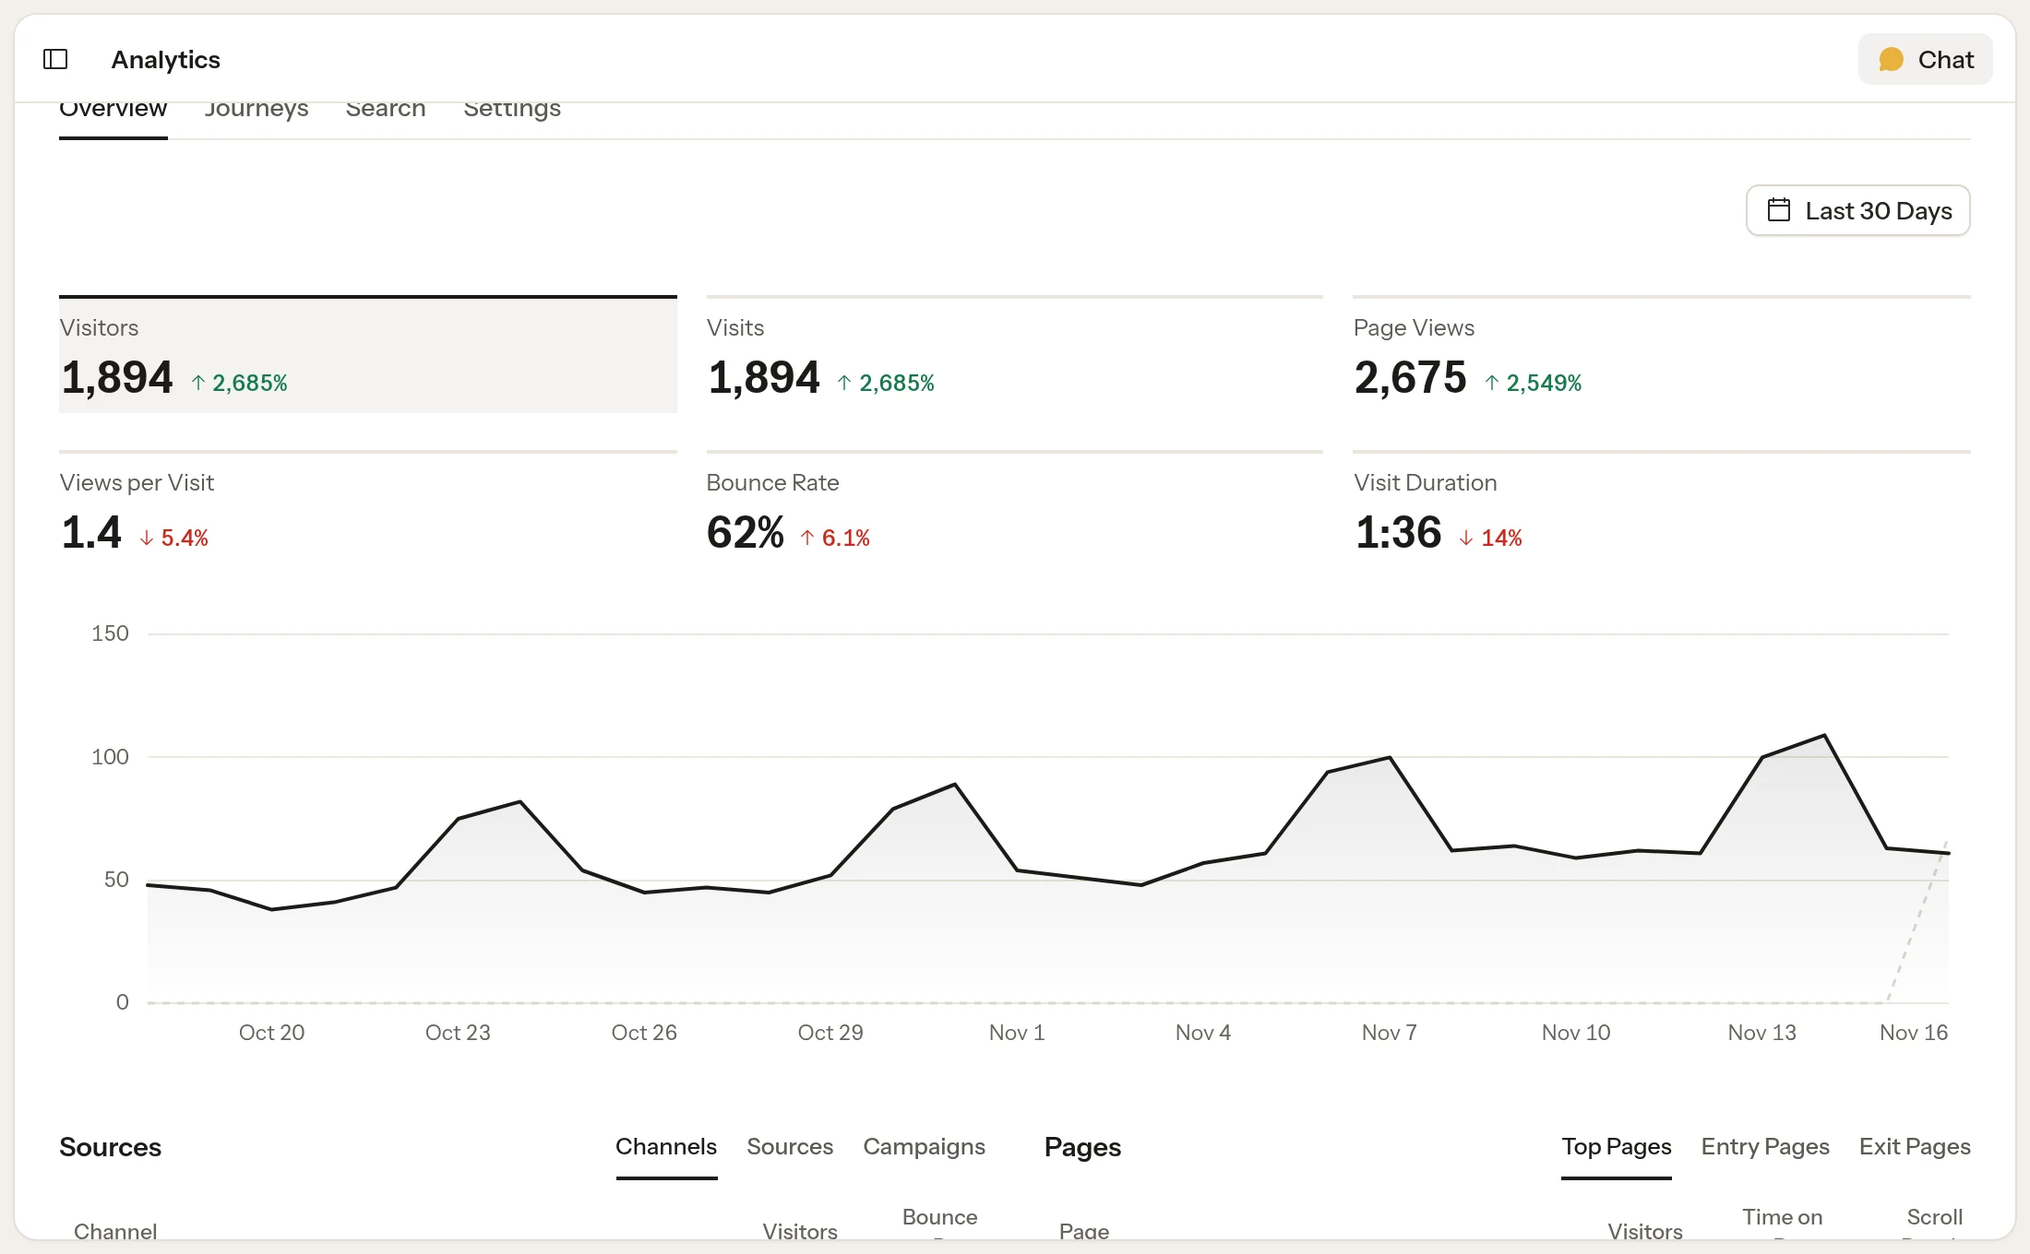
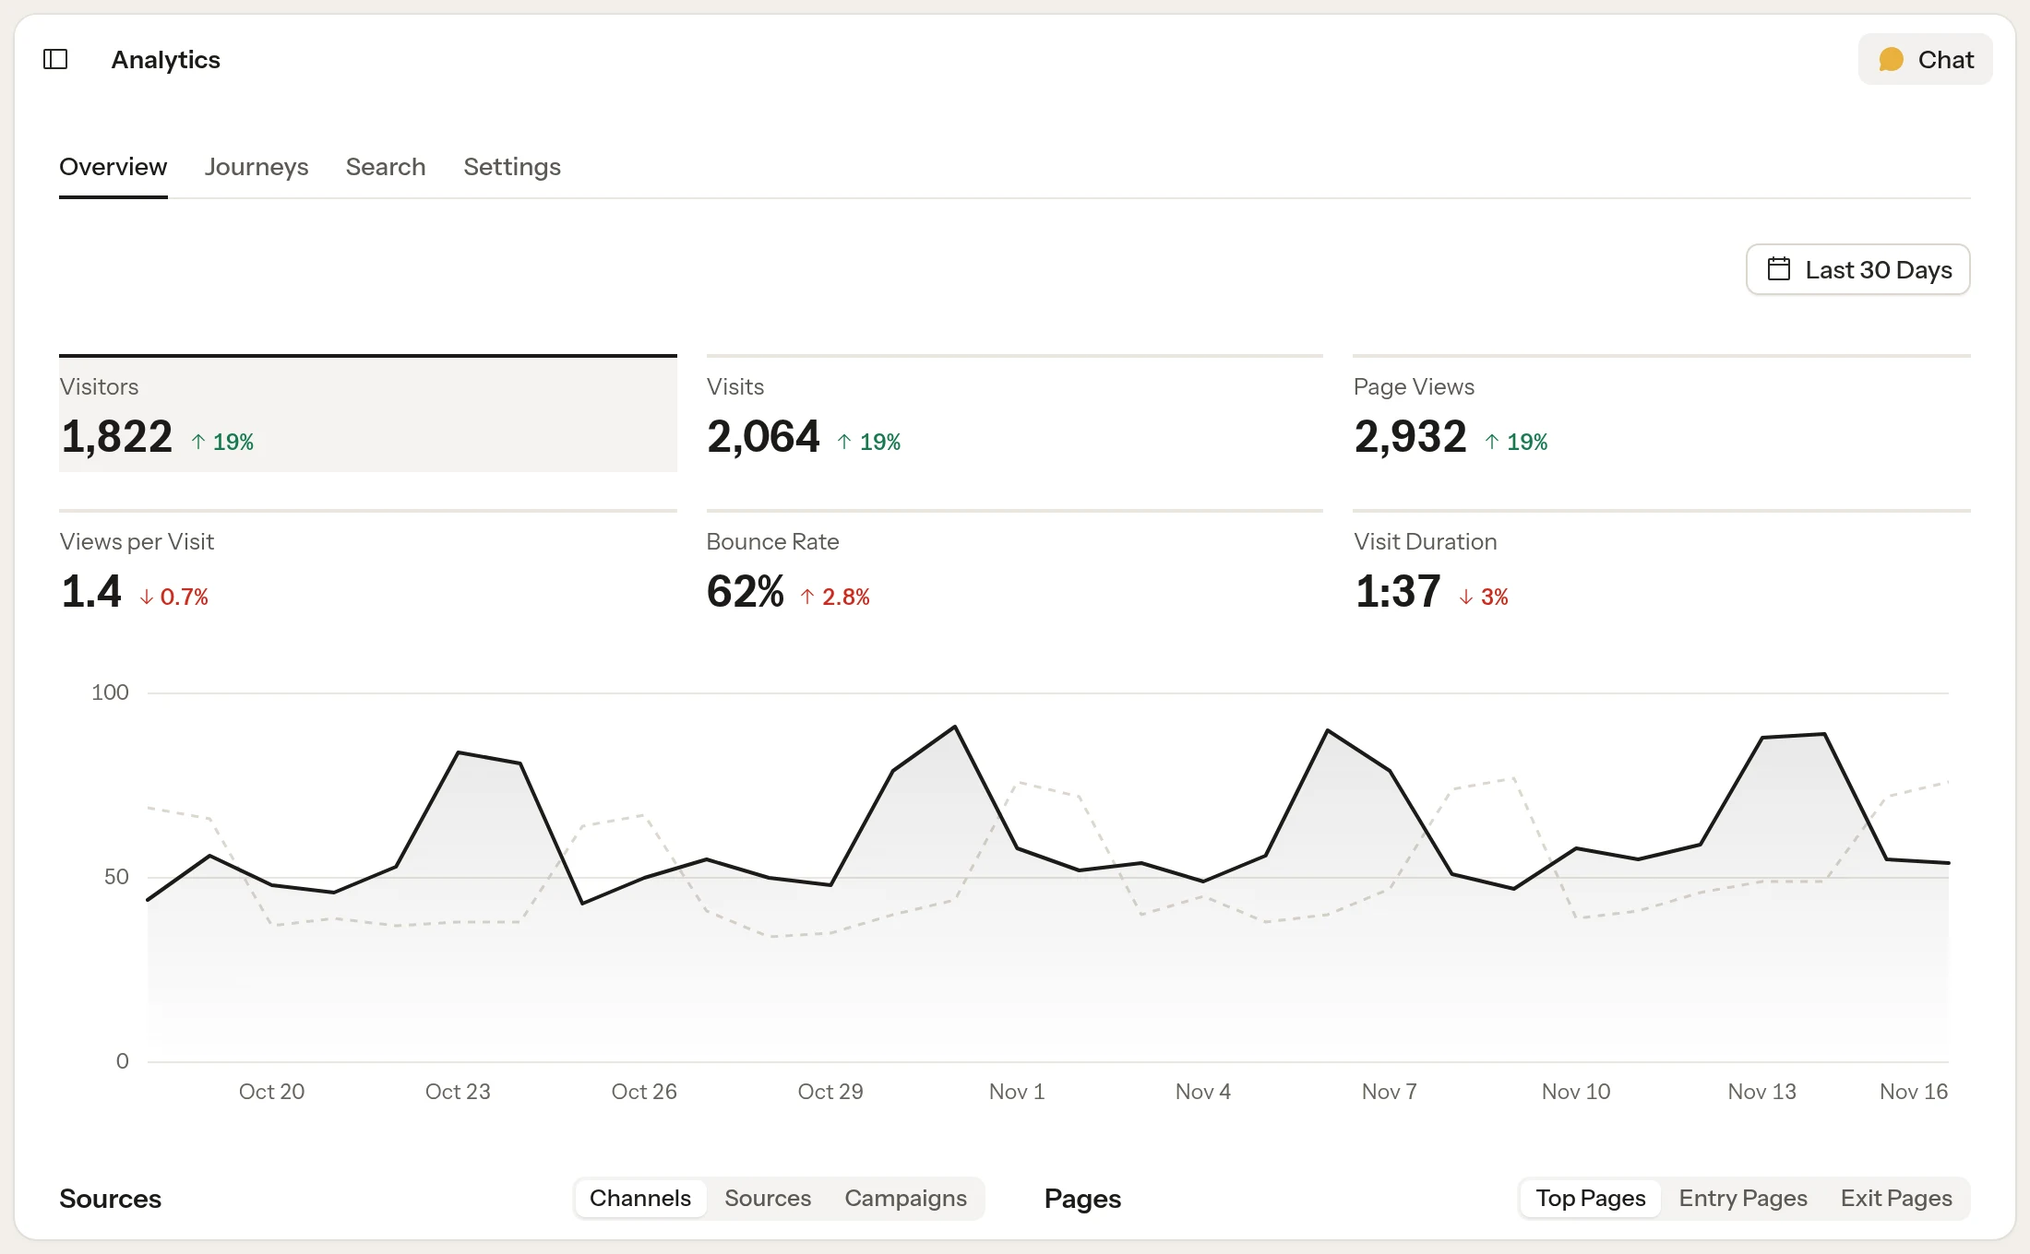
Describe Analytics with filters, goals, funnels, Search Console and page speed
The page says what the next Analytics release does: visits and filters,
periods, channels and countries, goals, funnels and paths, Google Search
Console and how to connect it as a service account, AI assistants and
page speed, the editor's tab and the widgets, events of one's own, and
every ability. A picture of the Analytics screen leads it.

diff --git a/content/collections/docs/operations/analytics.md b/content/collections/docs/operations/analytics.md
@@ -2,11 +2,13 @@
 id: 01m5yz76zg040qnw6kerbpt360
 title: Analytics
 position: 6
-description: See which pages people read, counted on your own server. Page views by default, with visitors, sources and devices if you want them.
+description: See who reads your site, where they come from and what they do, counted on your own server. Page views by default; visitors, goals, funnels, page speed and Google Search if you want them.
 ---
-The Analytics plugin counts visits to your published site on your own server. Nothing goes to another company, and by default nothing is read from the visitor's browser at all.
+The Analytics plugin counts visits to your published site on your own server. Nothing goes to another company, no cookie is set, and by default nothing is read from the visitor's browser at all.
 
-Open **Analytics** in the sidebar for the numbers, on its **Overview** tab. The **Analytics** card on the dashboard shows the last 30 days at a glance.
+![Analytics: visitors, visits and page views against the month before, the chart, and where visits come from.](/media/screens/operations-analytics.webp)
+
+Open **Analytics** in the sidebar for the numbers. The **Analytics** card on the dashboard shows the last 30 days at a glance, and **Customize** adds three more: **On the Site Now**, **Top Pages** and **Google Search**. Each page in the editor has an **Analytics** tab in its side panel with how it did in the last 30 days.
 
 ## Choose what to count
 
@@ -14,9 +16,9 @@ On the **Settings** tab of **Analytics**, **What to Count** has two options:
 
 | | **Page Views Only** (the default) | **Visitors, Sources and Devices** |
 |---|---|---|
-| You see | Page views, top pages, languages | Everything, including visitors, where they came from and what they use |
-| On the page | One invisible image, no script | A tiny script |
-| Read from the browser | Nothing | Where they came from, window width, Do Not Track |
+| You see | Page views, top pages, languages | Everything below |
+| On the page | One invisible image, no script | A small script |
+| Read from the browser | Nothing | Where they came from, window width, time zone, how long and how far they read, how fast the page was, Do Not Track |
 | Kept about visitors | Nothing | A daily code per visitor that can't be traced back, replaced every day |
 
 Visitors mode reads data from the browser and keeps that daily code. Whether that needs your visitors' consent depends on their countries, so check the rules for them. By default it waits for your consent tool to say yes; turn off **Wait for Consent** if you've decided you don't need it. The free [Consent](/operations/consent) plugin is such a tool: with it, counting starts once a visitor accepts analytics.
@@ -25,20 +27,69 @@ Going back to page views only deletes the visitor data. Views per page stay.
 
 ## Who isn't counted
 
-In both modes, Lettern skips bots, people who ask not to be tracked (**Do Not Track** or **Global Privacy Control**), previews, the editor, and people signed in to the admin. So you and your client don't inflate the numbers. Visitors with an account on the site are counted like anyone else.
+In both modes, the CMS skips bots (search engines' and AI companies' crawlers among them), people who ask not to be tracked (**Do Not Track** or **Global Privacy Control**), previews, the editor, and people signed in to the admin. So you and your client don't inflate the numbers. Visitors with an account on the site are counted like anyone else.
 
-## What the numbers mean
+## The Overview
+
+Pick the period at the top right: the last 30 minutes (live), today or yesterday by the hour, the last 7, 30 or 90 days, the last 12 months by the month, or any two dates. Every number is compared with the period before, and the chart draws the period before as a dashed line behind the one on view. Press a number to chart it.
 
 | Number | Means |
 |---|---|
+| **Visitors** | Different people per day, added up over the period. |
+| **Visits** | Times people came. A visit ends after half an hour without a page or a click. |
 | **Page Views** | Every page opened. |
-| **Visitors** | Different people per day, added up over the period. Visitors mode. |
-| **Views per Visit** | Page views divided by visitors. Visitors mode. |
-| **Bounce Rate** | The share of visitors who opened one page and left. Visitors mode. |
+| **Views per Visit** | Page views divided by visits. |
+| **Bounce Rate** | The share of visits of one page, with no click on a link, a download or a form. |
+| **Visit Duration** | How long a visit's pages were in front of the visitor, on average. A tab in the background doesn't count. |
+| **Time on Page** | The same for one page, when you narrow the report to it. |
+| **Scroll Depth** | How far down people got on a page, on average. |
 
-Choose 7, 30 or 90 days. Each number is compared with the period before, and you can chart it per day. Below are the **Top Pages** and the views per language.
+Below the chart:
 
-Visitors mode adds the **Entry Pages** where visits start, **Sources** (the site that linked to you, the campaign in a link's `utm_source` or `ref`, or "Direct"), devices, browsers and operating systems, and how many people are on the site now.
+- **Sources**: **Channels** (search engines, AI assistants such as ChatGPT, Perplexity, Claude, Gemini and Copilot, social networks, email, paid ads, other websites and campaigns), **Sources** (the site that linked to you, or "Direct") and **Campaigns** (from a link's `utm_campaign`).
+- **Pages**: the **Top Pages** with their time on page and scroll depth, the **Entry Pages** visits start on, and the **Exit Pages** they end on.
+- **Countries**, from the visitor's time zone: no address is looked up.
+- **Devices**: the kind of device, the browser and the operating system.
+- **Goals**: see below.
+
+### Narrow the report
+
+Press any row, a source, a page, a country, a goal, and every number, the chart and every list show only those visits: "AI Assistants" shows what people sent by AI answers read, "/pricing" shows who read the pricing page and where they came from. The filters show at the top; remove one with its ×. They're in the page's address, so you can bookmark or send a report, and **Back** takes the last one off.
+
+## Goals
+
+A goal is something you want visitors to do. Every event below is a goal by its name, with how many visitors reached it, how often, and the **Conversion Rate**: the share of visitors who did. Press a goal to see who reached it, and what its events carried, such as which links were clicked or which files downloaded.
+
+- **Outbound Link**, **File Download** and **Form Sent** are counted by themselves: clicks on links to other sites, downloads of files (PDF, documents, archives, audio and video) and forms sent. Turn them off with **Count Links, Downloads and Forms**. A form's contents are never read.
+- **Page Not Found** is a visit to an address the site doesn't have, with that address, so you can find broken links.
+- **Goal Pages** in the settings turn a page into a goal: a name such as "Signed Up" and a page such as `/thank-you`, or `/welcome/*` for every page under it.
+- Your site's own events, see [For developers](#events-of-your-own).
+
+## Journeys
+
+The **Journeys** tab (visitors mode) shows how visits move through the site.
+
+- **Funnels**: add one under **Funnels** in the settings, with a name and its steps in order, each a page (`/pricing`) or a goal's name (`Signup`). The tab shows how many visitors took each step within one visit, and how many dropped off at each.
+- **Common Paths**: the routes visits of two pages or more take most, two, three or four pages long. Narrow the report to one page and it shows where its visitors came from and where they went next.
+
+## Search
+
+The **Search** tab is about how people find the site.
+
+- **Google Search**, from Google Search Console: clicks, impressions, click-through rate and average position, the searches people found the site with, the pages Google showed, and **Close to the Top**: searches the site shows up for at positions 4 to 20, most shown first. Those are where a better page brings more visitors soonest. Narrow the report to a page to see its searches only. Google is a day or two behind.
+- **AI Assistants**: how many visitors AI answers sent, which assistants, and the pages they landed on.
+- **Page Speed**: how fast the pages were for your visitors, measured in their browsers: the Core Web Vitals Google ranks pages by. **Loading** is Largest Contentful Paint, **Responding** is Interaction to Next Paint and **Steadiness** is Cumulative Layout Shift. Each is what 3 in 4 visits did at least as well as, and is rated as Google rates it: good up to 2.5 s, 200 ms and 0.1, poor above 4 s, 500 ms and 0.25. The pages that need it most come first; a page is rated once 10 visits measured it.
+
+### Connect Search Console
+
+The CMS reads Search Console as a Google Cloud service account, so no Google sign-in is kept on your site:
+
+1. In the [Google Cloud console](https://console.cloud.google.com/), make a project (or use one), and turn on the **Google Search Console API** for it.
+2. Under **IAM & Admin → Service Accounts**, make a service account. Under its **Keys**, add a key of type JSON. A file downloads.
+3. In [Search Console](https://search.google.com/search-console), open your site's property, then **Settings → Users and permissions → Add user**: the service account's email address (`…@….iam.gserviceaccount.com`), with **Restricted** permission.
+4. In the CMS, on the **Settings** tab of **Analytics**, paste the whole file into **Service Account Key** and save.
+
+The key is kept encrypted, outside the site's settings files, and can be set with the environment variable `CMS_ANALYTICS_SEARCH_KEY` instead. The CMS finds the property for the site's address itself; if yours is another one, name it in **Search Console Property**: `sc-domain:example.com` for a domain property, `https://example.com/` for an address one. If something is wrong, the **Search** tab says what: the key, or access to the property.
 
 ## Settings
 
@@ -49,30 +100,66 @@ All on the **Settings** tab of **Analytics**. Save from the bar at the bottom. T
 | **Count Visits** | Off stops counting. The numbers collected so far stay. |
 | **What to Count** | See above. |
 | **Wait for Consent** | Visitors mode only. |
+| **Count Links, Downloads and Forms** | Visitors mode only. On by default. |
 | **Paths Not to Count** | Paths, or patterns with `*`, like `/drafts/*`. |
 | **Keep Visits For** | In days, 730 by default. 0 keeps them forever. |
-| **Reporting Address** | Only for a site hosted somewhere other than the admin: the address of this Lettern, which pages report to. |
+| **Reporting Address** | Only for a site hosted somewhere other than the admin: the address of this CMS, which pages report to. |
+| **Goal Pages** | See [Goals](#goals). |
+| **Funnels** | See [Journeys](#journeys). Visitors mode only. |
+| **Service Account Key** | See [Connect Search Console](#connect-search-console). |
+| **Search Console Property** | Only when the CMS can't find it itself. |
 
 ## For developers
 
 ### Page views only
 
-A page ends with `<img src="/api/analytics/view?p=/pricing">`, with the path written in at build. The endpoint always answers with the same 1×1 GIF and `Cache-Control: no-store`, counted or not, so it reveals nothing. It reads no session, counts only paths that exist, and requires a same-origin `Sec-Fetch-Site` header when the browser sends one. The IP address and browser string are read in memory to skip bots, then dropped. Its rate limit is one bucket of 600 a minute for everybody, because a key per visitor would mean storing a hash of their address. Past the limit a view isn't counted. Lettern keeps views per day and path.
+A page ends with `<img src="/api/analytics/view?p=/pricing">`, with the path written in at build. The endpoint always answers with the same 1×1 GIF and `Cache-Control: no-store`, counted or not, so it reveals nothing. It reads no session, counts only paths that exist, and requires a same-origin `Sec-Fetch-Site` header when the browser sends one. The IP address and browser string are read in memory to skip bots, then dropped. Its rate limit is one bucket of 600 a minute for everybody, because a key per visitor would mean storing a hash of their address. Past the limit a view isn't counted. The CMS keeps views per day and path.
 
-### Visitors, sources and devices
+### Visitors mode
 
-A few hundred bytes of script post the path, referrer, campaign and window width to `/api/analytics/hit` after the page loads. The endpoint is rate-limited per address and accepts views from the site's own pages only. The IP address and browser string are hashed with a salt that is replaced daily and thrown away. Lettern keeps one row per visitor and day, daily totals per page, and the source, device, browser and operating system. Switching to this mode starts collecting from that day; switching back deletes the visitor data and its salt.
+A script of about 3 KB, the same on every page, posts to `/api/analytics/hit`: the page view after the page loads (path, referrer, `utm_source` or `ref`, `utm_medium`, `utm_campaign`, whether the address has an ad click id, the window width and the time zone), then as the page is hidden the time it was in front of the visitor, how far they scrolled and its Core Web Vitals, and any events. It stores nothing in the browser. Its settings are the script element's attributes, so the site's content security policy needs one hash for it. The endpoint is rate-limited per address and accepts reports from the site's own pages only.
+
+The IP address, the browser string and the site's host are hashed with a salt that is replaced daily and thrown away. Of the referrer only the site's name is kept. The CMS keeps visits (with the source, channel, campaign, country, device, browser and operating system), the pages viewed in them with their time, scroll depth and speed, and their events. Switching to this mode starts collecting from that day; switching back deletes the visitor data and its salt.
 
 The consent signal is `window.cmsConsent = { analytics: true }` set before the page's script runs, or a `cms:consent` event on `document` with `detail: { analytics: true }`. The [Consent](/operations/consent#the-consent-signal) plugin gives both. Web server logs are separate from all of this, and are your host's matter.
 
+### Events of your own
+
+On a published page, count an event with a name and up to 10 properties of short text:
+
+```js
+window.cmsAnalytics.track('Signup', { plan: 'Pro' })
+```
+
+Or give an element the event's name, and each click on it counts:
+
+```html
+<a href="/signup" data-cms-event="Signup" data-cms-event-plan="Pro">Start free</a>
+```
+
+A plugin counts an event of its own, a sale or a confirmed sign-up, through the core's hooks, without depending on Analytics: `cms()->hooks()->dispatch('analytics.track', 'Purchase', ['plan' => 'Pro'], '/pricing')`. Such events belong to no visit, so they add to how often a goal was reached, not to its visitors.
+
 ### Staff aren't counted
 
-When someone with admin access signs in, Lettern sets an HTTP-only `cms_staff` cookie. Nothing on a page reads it; the endpoints use it to skip the visit.
+When someone with admin access signs in, the CMS sets an HTTP-only `cms_staff` cookie. Nothing on a page reads it; the endpoints use it to skip the visit.
 
 ### Abilities and hooks
 
-Agents and the API read the same numbers through `analytics/summary` and `analytics/breakdown`, with `analytics.view`, **View Site Analytics** in **Roles** (Editors have it by default). In page-views mode, numbers it can't know are `null`, and breakdowns other than `pages` and `languages` answer `{"unavailable": "mode"}`. A plugin with pages of its own that aren't entries lets them be counted through the `analytics.known-path` filter.
+Agents (over MCP), the REST API, the command line and other plugins read the same numbers through abilities, with `analytics.view`, **View Site Analytics** in **Roles** (Editors have it by default). Each takes a `period` (`realtime`, `today`, `yesterday`, `7d`, `30d`, `90d`, `12mo`, or `custom` with `from` and `to`) and `filters`, a list of `{"dimension": "source", "op": "is", "value": "Google"}`: dimensions `page`, `goal`, `entry`, `exit`, `channel`, `source`, `medium`, `campaign`, `country`, `device`, `browser` and `os`; ops `is`, `is_not` and `contains`; `*` in a page for anything and `null` for none. They answer with totals only, never with one visitor.
+
+| Ability | Answers with |
+|---|---|
+| `analytics/summary` | The numbers of the Overview for the period and the one before, a row per step, and who is on the site now. `compare: true` adds the period before step by step. |
+| `analytics/breakdown` | Visitors per `pages`, `entries`, `exits`, `channels`, `sources`, `campaigns`, `countries`, `devices`, `browsers`, `os`, `languages`, `goals` or `props` (the properties of the goal filtered on). |
+| `analytics/funnel` | A funnel of the settings by its name, or `steps` given, step by step. |
+| `analytics/paths` | The common paths, or a `page`'s before and after. |
+| `analytics/vitals` | Page speed for the site and per page. |
+| `analytics/search` | Search Console: `summary`, `queries`, `pages`, `countries`, `devices`, `opportunities` or `status`; narrowed to a `page` or a `query`. |
+| `analytics/goals` | The goal pages and funnels of the settings. |
+| `analytics/track` | Counts an event from outside the pages. Needs `analytics.track`, **Record Analytics Events** (Administrators have it). |
+
+In page-views mode, numbers it can't know are `null`, filters other than pages and breakdowns other than `pages`, `languages` and `goals` answer `{"unavailable": "mode"}`. A plugin with pages of its own that aren't entries lets them be counted through the `analytics.known-path` filter.
 
 ### Demo data
 
-`php cms analytics:demo` fills an empty site with made-up traffic for the pages it has (`--days=120`, `--fresh` to replace what's there). It refuses to run in production.
+`php cms analytics:demo` fills an empty site with made-up traffic for the pages it has: visits, goals, countries and page speed (`--days=120`, `--fresh` to replace what's there). It refuses to run in production.
